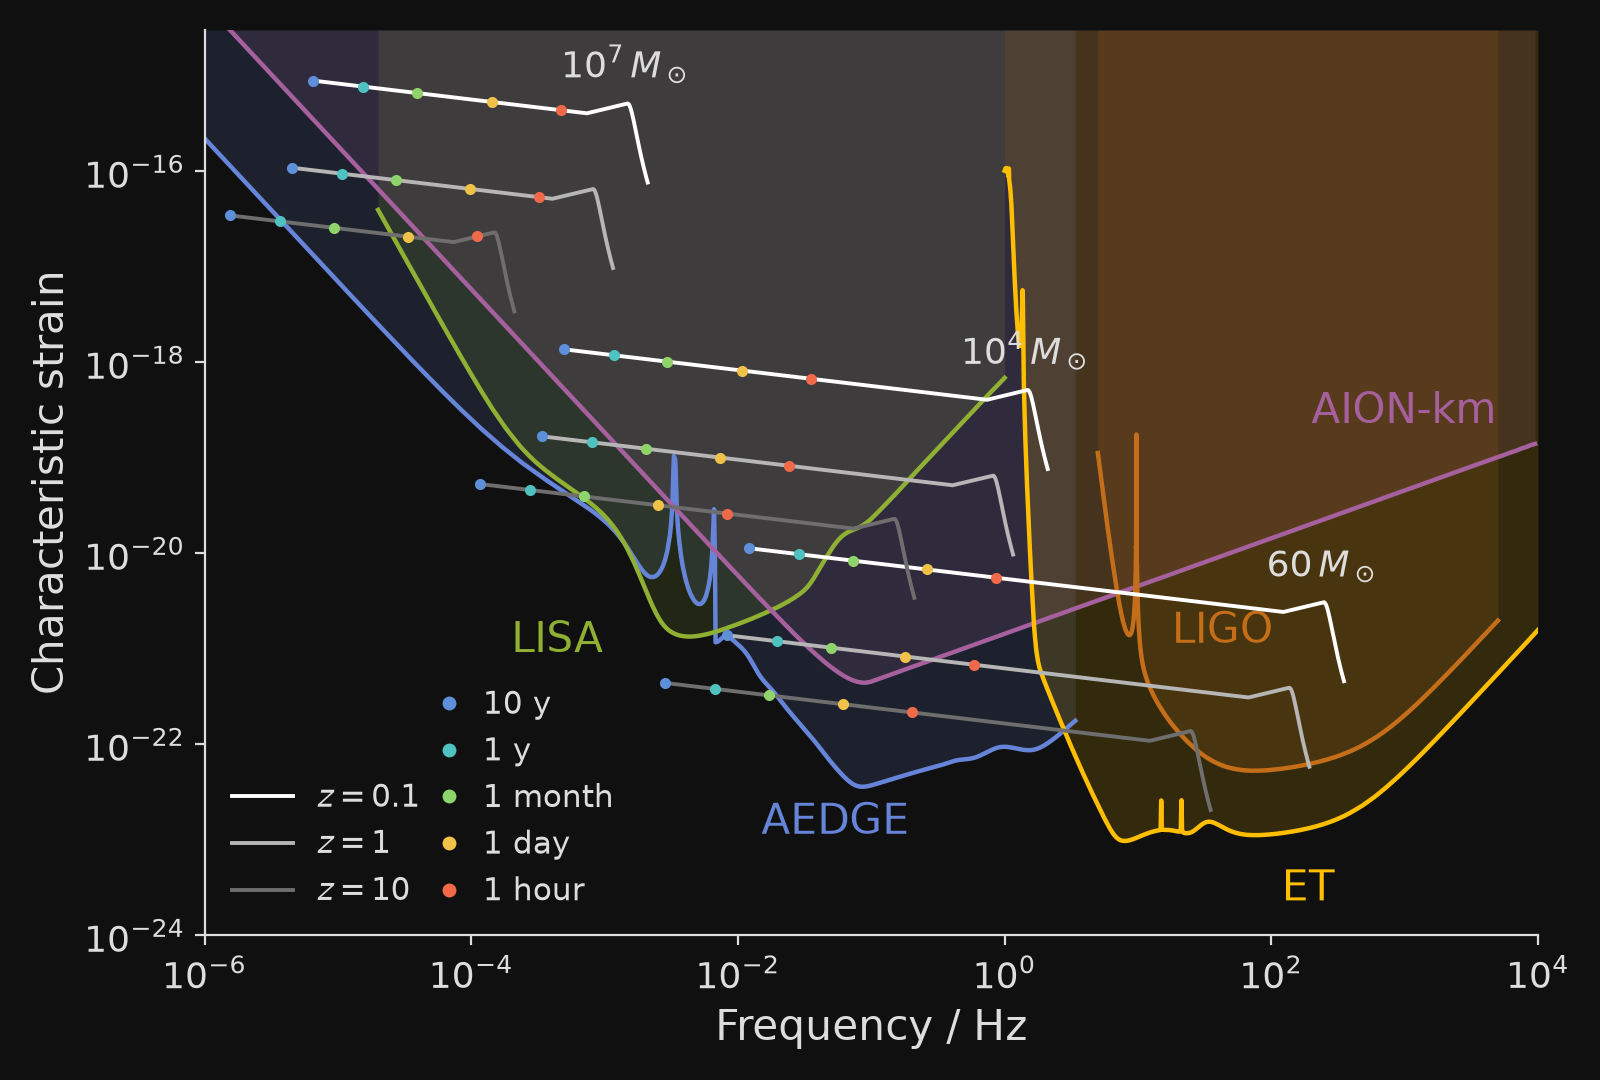
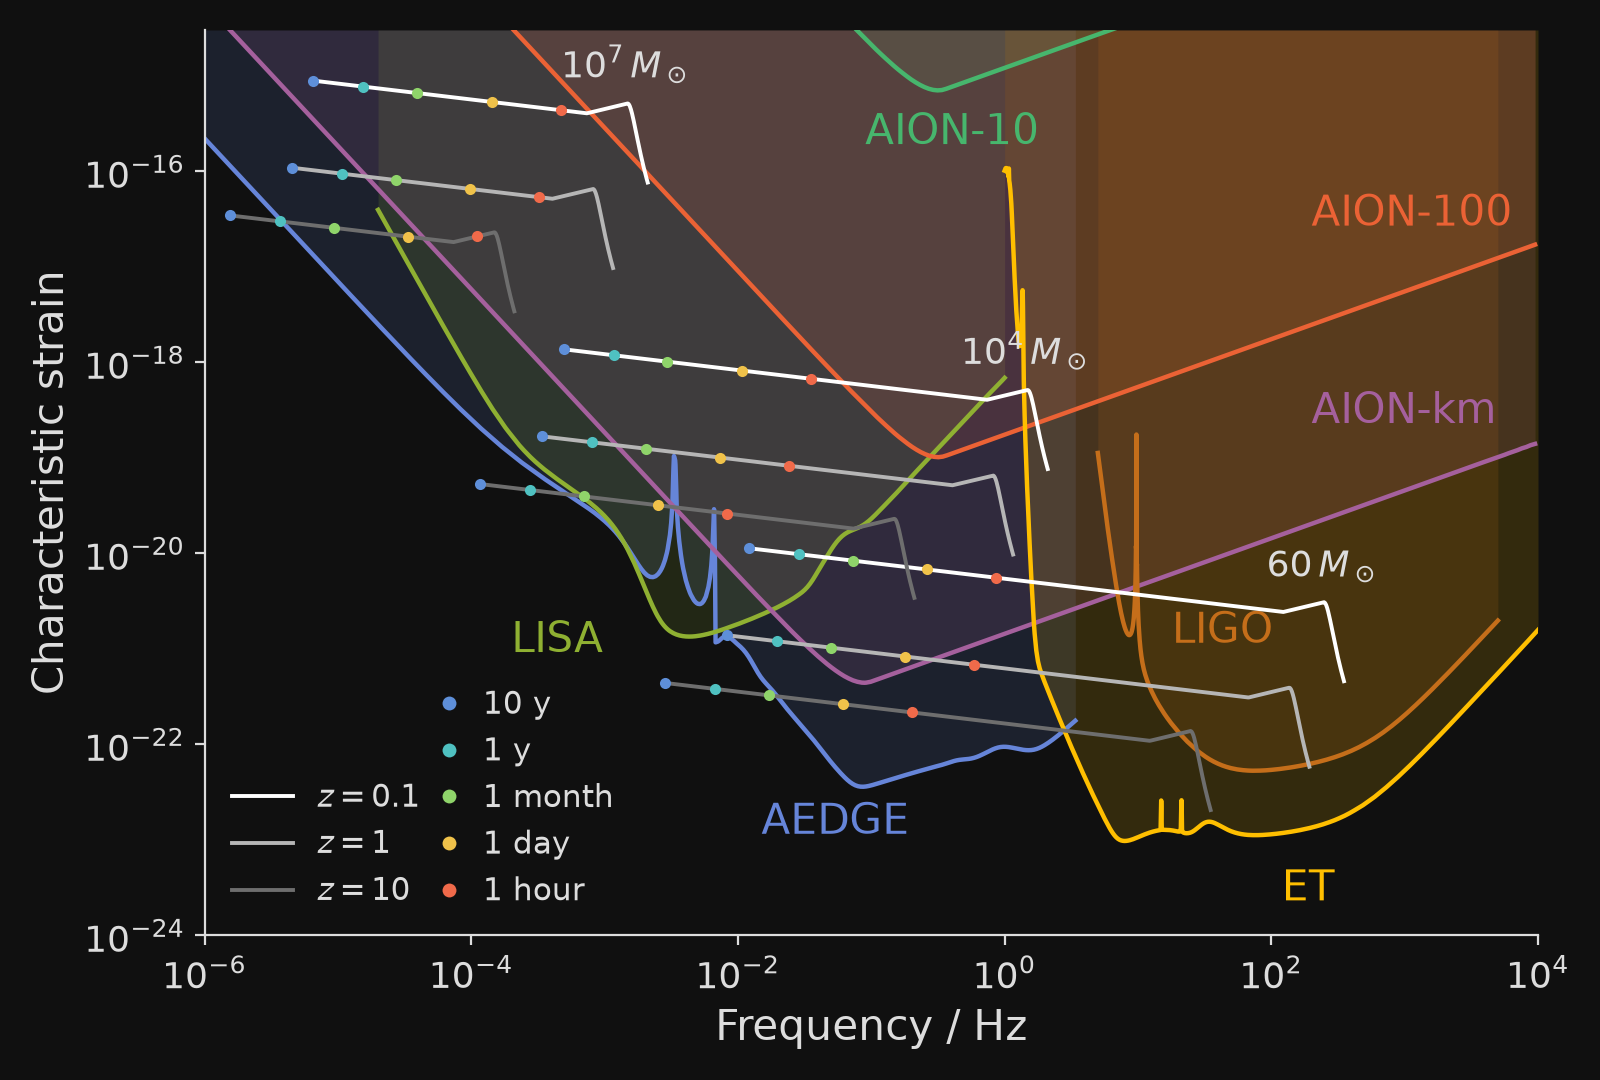
gw_sensitivity figure: add AION-10 and AION-100, regenerate the PNG

diff --git a/qsim_visit/src/aionanim/plots/gw_sensitivity.py b/qsim_visit/src/aionanim/plots/gw_sensitivity.py
@@ -1,7 +1,7 @@
-"""Characteristic-strain sensitivity curves of LISA, LIGO, ET, AION-km and AEDGE,
-with black-hole merger tracks laid over them.
+"""Characteristic-strain sensitivity curves of LISA, LIGO, ET, AION-10, AION-100,
+AION-km and AEDGE, with black-hole merger tracks laid over them.
 
-All five curves digitised from ``GW_exclusion_plot.svg`` into
+All seven curves digitised from ``GW_exclusion_plot.svg`` into
 ``aionanim/data/gw_sensitivity/`` (see each CSV's header for the shapes it came from),
 drawn together on the source figure's axes, each region shaded down to its
 curve and labelled beside it.
@@ -50,6 +50,8 @@ H_RANGE = (1e-24, 3e-15)
 DETECTORS = {
     "AEDGE": ("aedge", (1.5e-2, 1.5e-23)),
     "LISA": ("lisa", (2e-4, 1.2e-21)),
+    "AION-10": ("aion_10", (9e-2, 2.5e-16)),
+    "AION-100": ("aion_100", (2e2, 3.5e-17)),
     "AION-km": ("aion_km", (2e2, 3e-19)),
     "ET": ("et", (1.2e2, 3e-24)),
     "LIGO": ("ligo", (1.8e1, 1.5e-21)),
